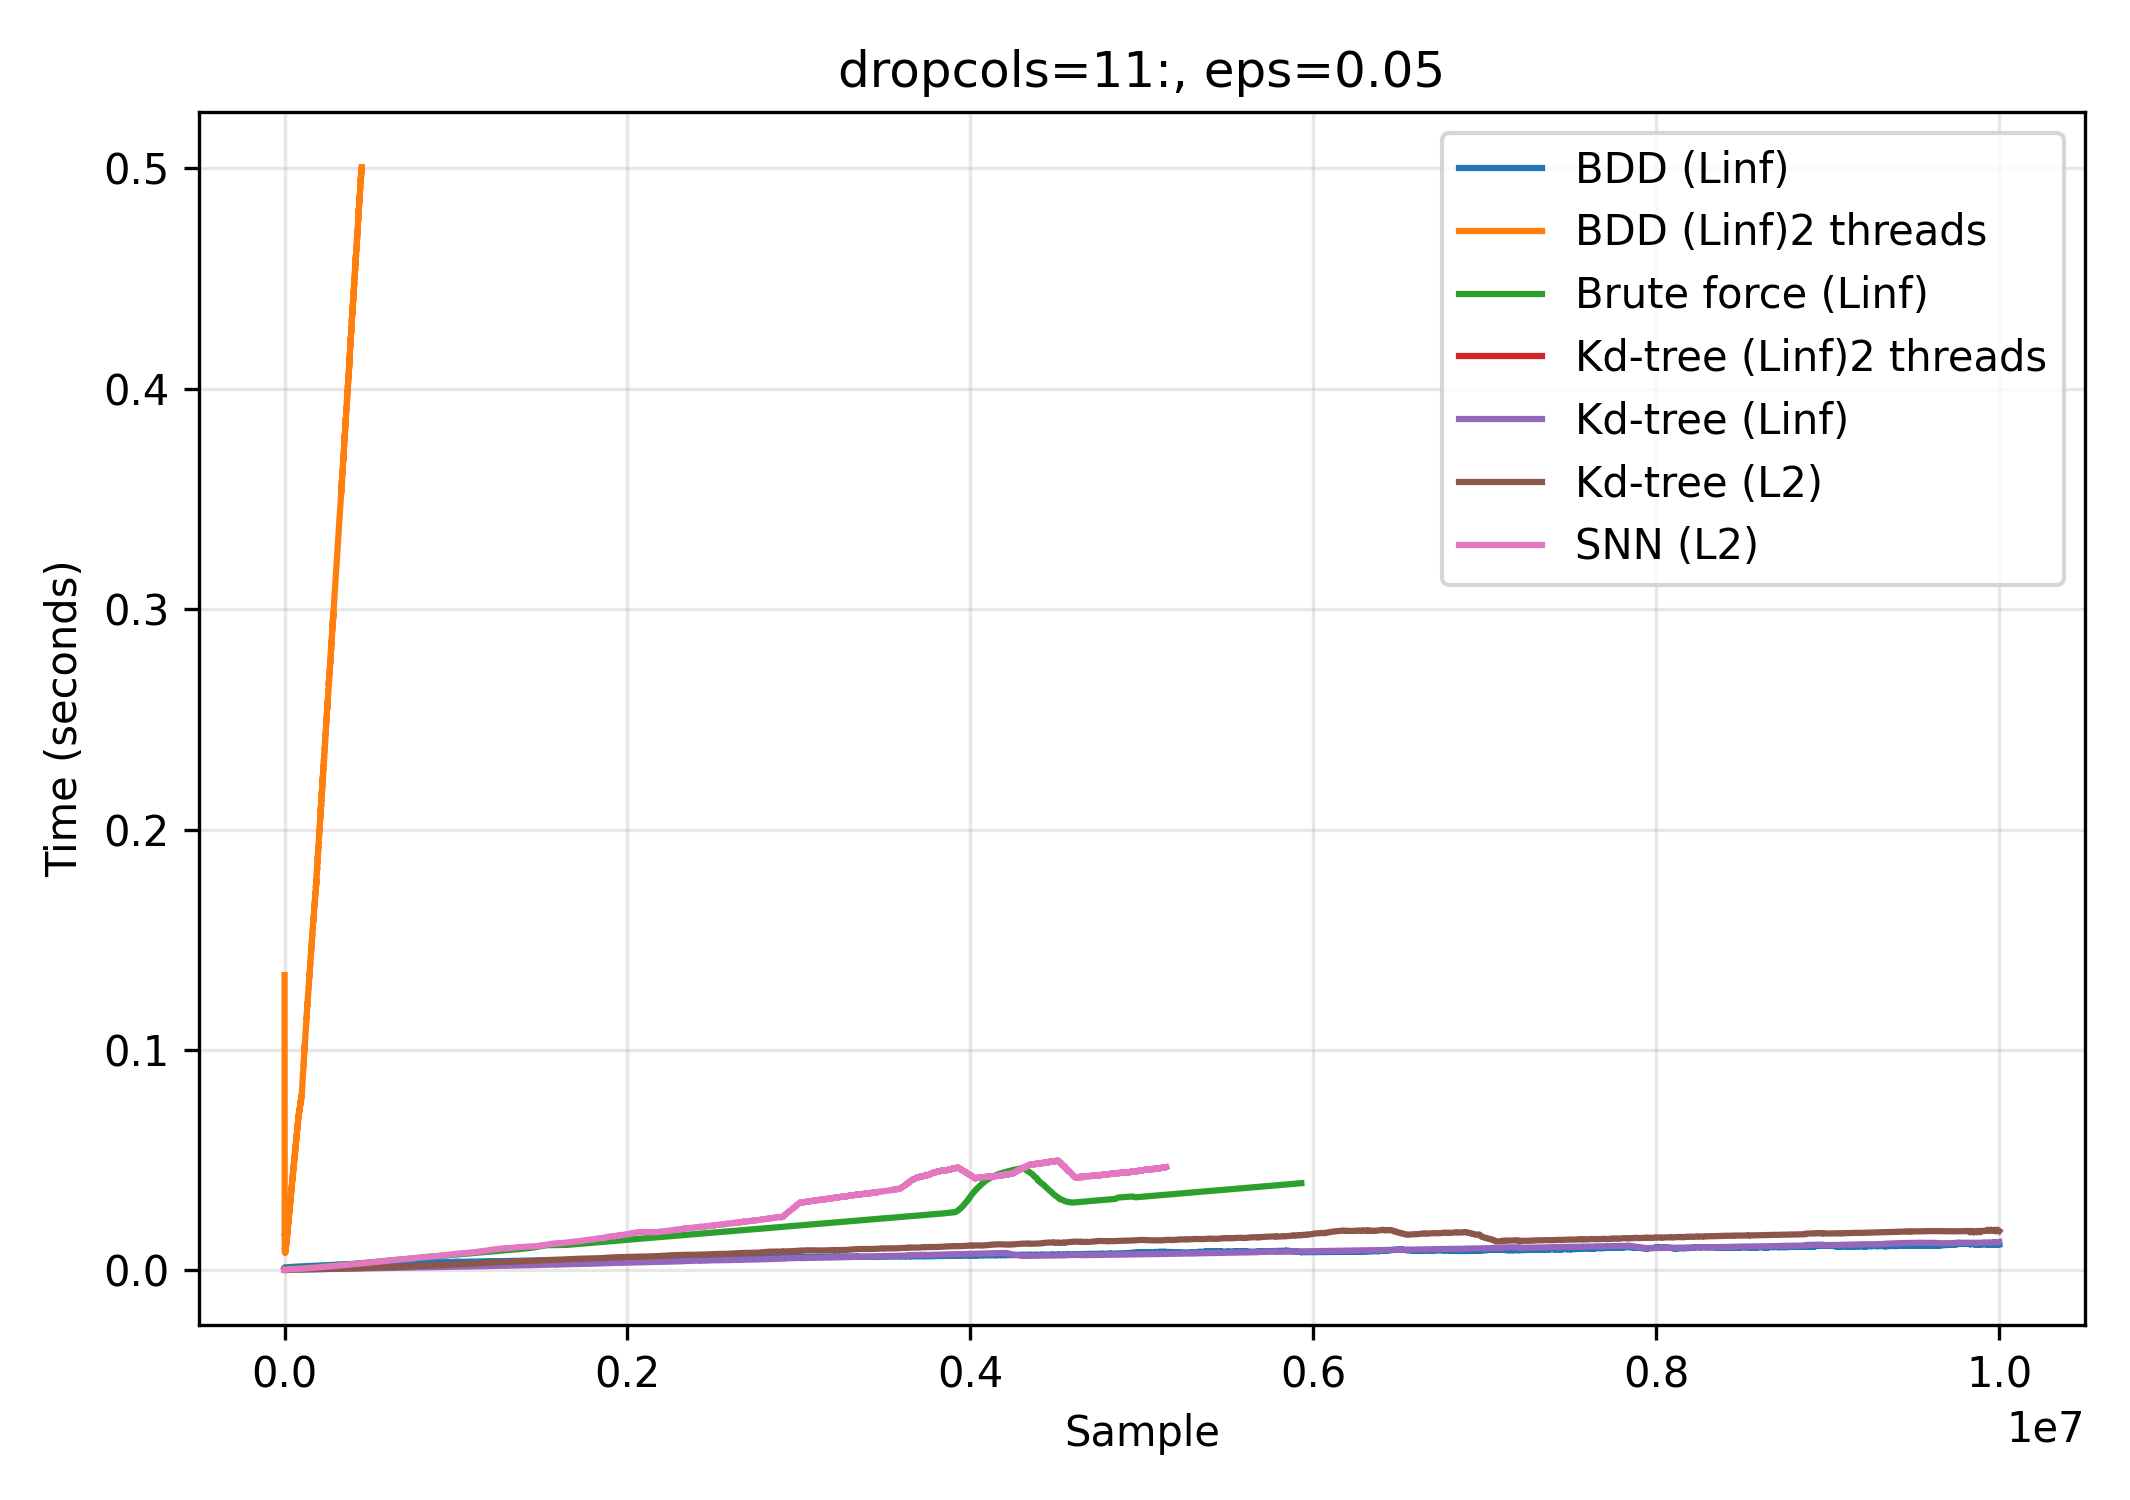
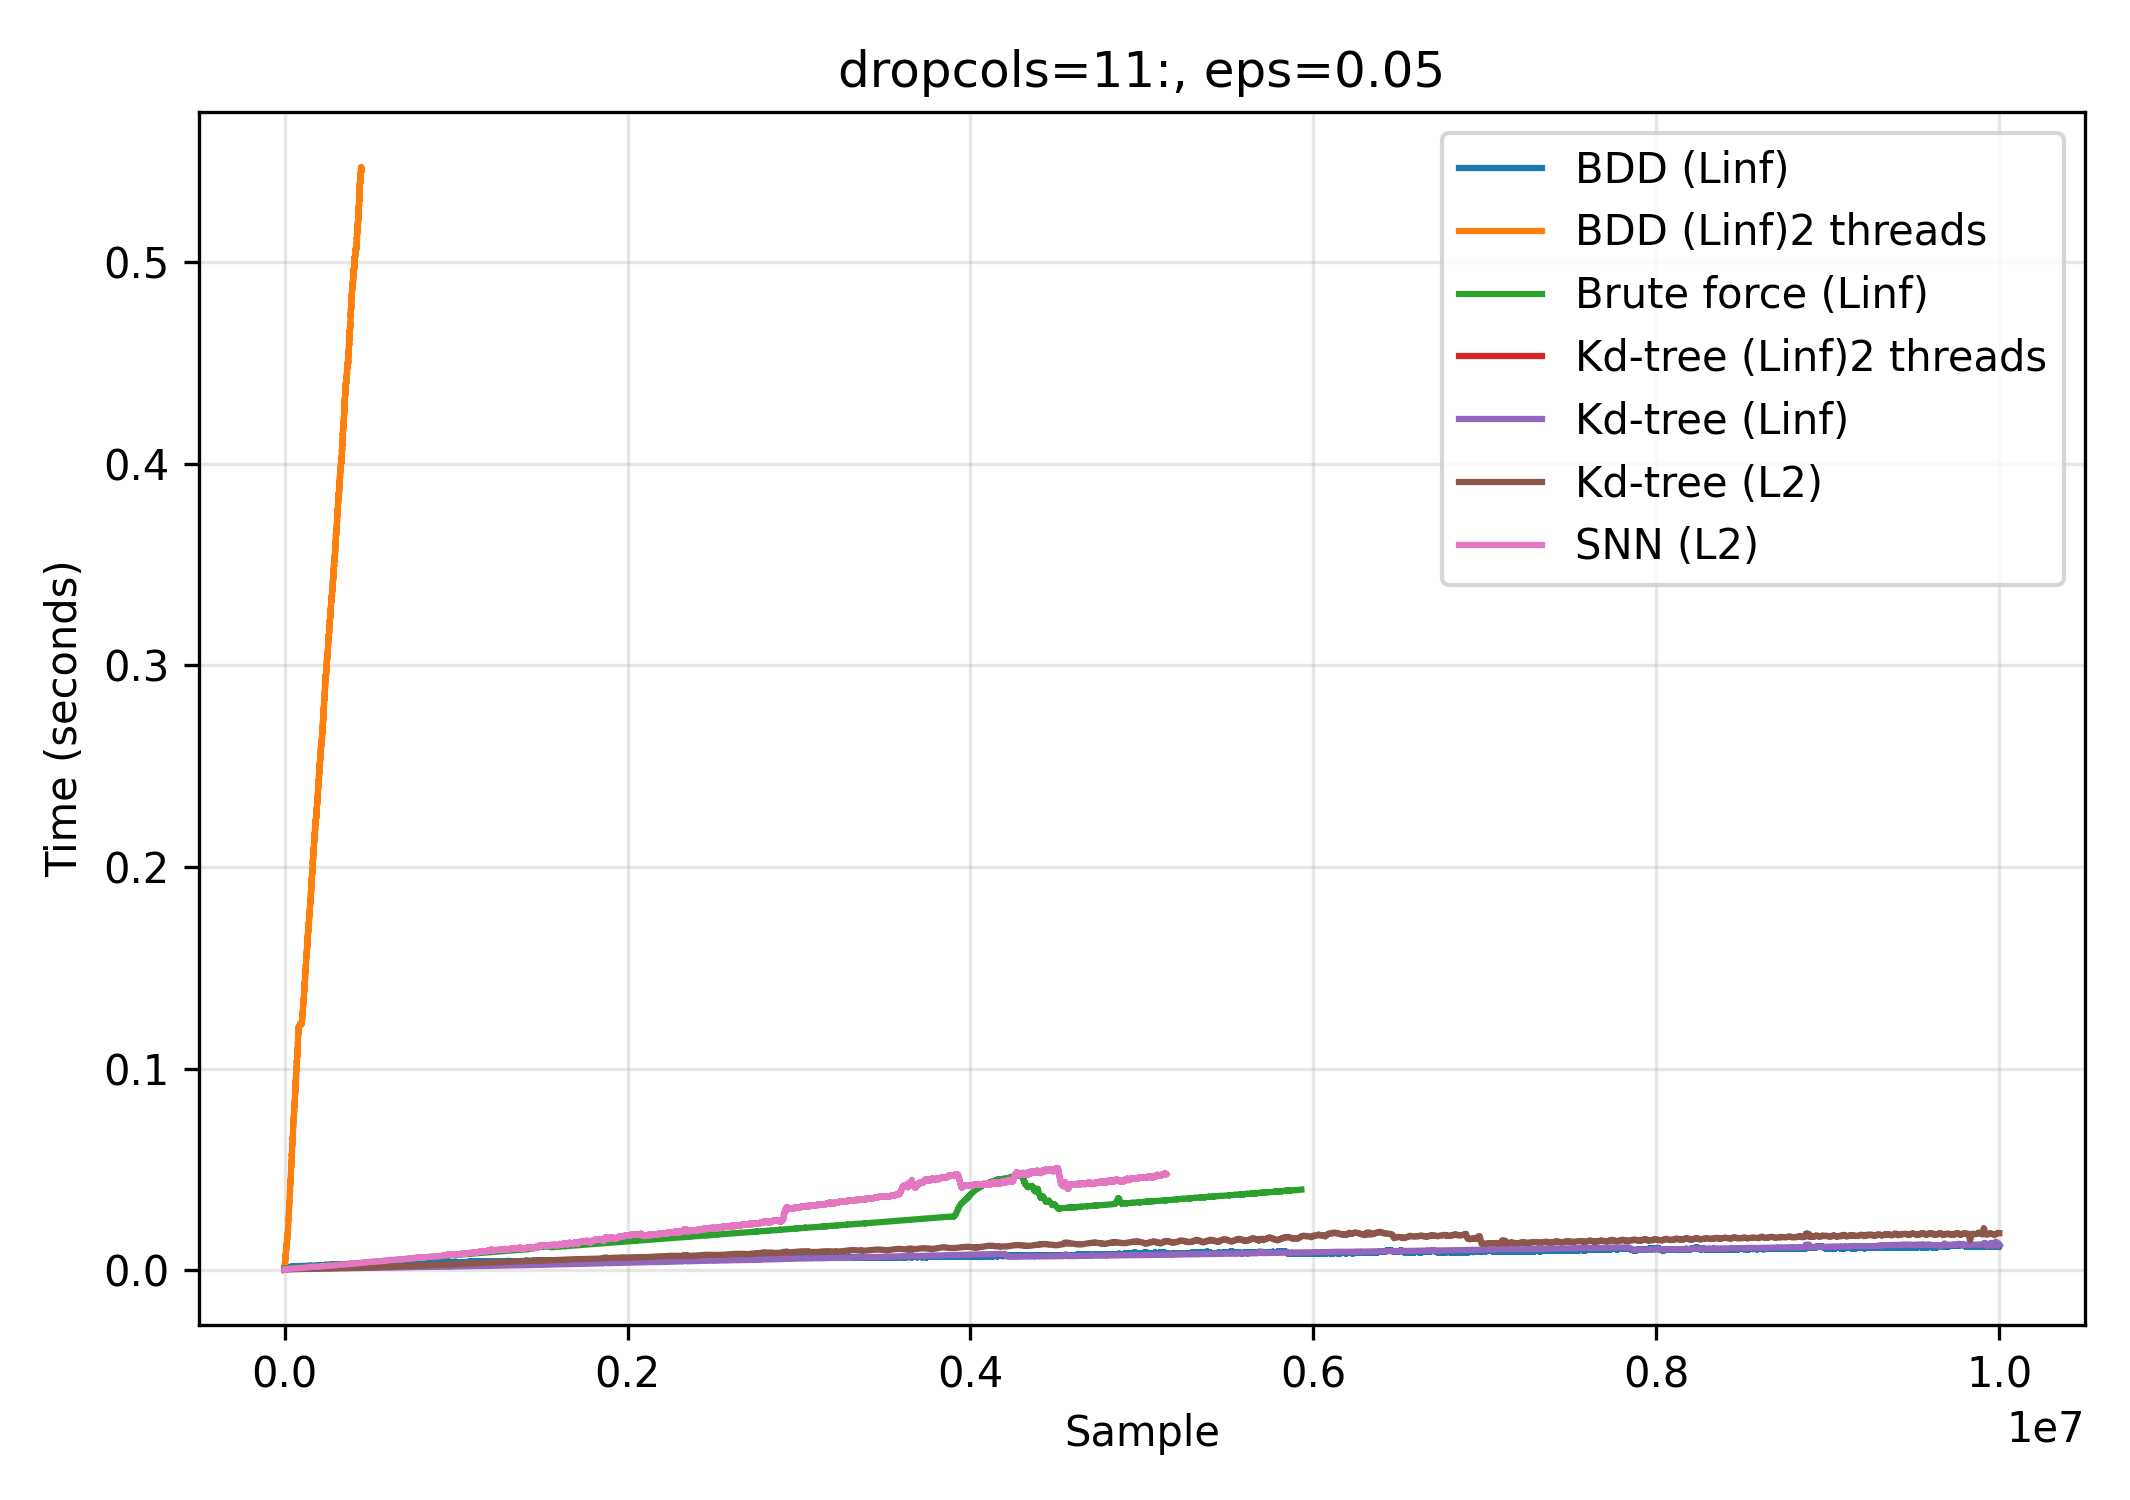
shorter windowsize

diff --git a/results/performance/plot.py b/results/performance/plot.py
@@ -11,7 +11,7 @@ def parse_args():
     parser = argparse.ArgumentParser(description='Plot timing results from JSON files')
     parser.add_argument('--results-dir', type=str, default=os.getcwd(),
                        help='Directory containing results (default: current directory)')
-    parser.add_argument('--windowsize', type=int, default=100000,
+    parser.add_argument('--windowsize', type=int, default=20000,
                        help='rolling average windowsize')
     parser.add_argument('--fix-batchsize', type=int, default=10000,
                        help='Fix batch size to a specific value')
@@ -78,9 +78,9 @@ data.sort(key=lambda x: (x['norm'], x['method'], x['eps']))
 plt.figure(figsize=(7.1, 5))
 
 for item in data:
-    x = np.arange(len(item['timings']))
-    y = rolling_average(item['timings'], args.windowsize)
-    plt.plot(x[args.omit_beginning:], y[args.omit_beginning:], label=item["name"])
+    x = np.arange(len(item['timings'][args.omit_beginning:]))
+    y = rolling_average(item['timings'][args.omit_beginning:], args.windowsize)
+    plt.plot(x, y, label=item["name"])
 
 plt.xlabel('Sample')
 plt.ylabel('Time (seconds)')
